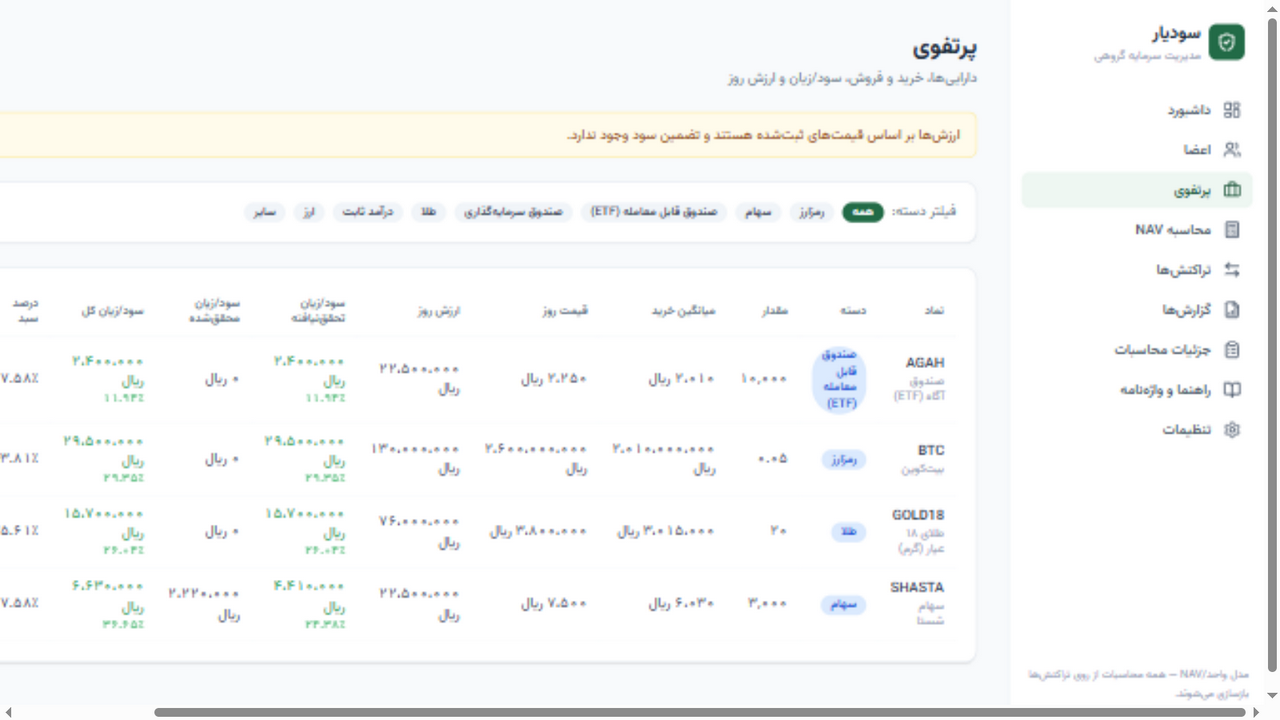
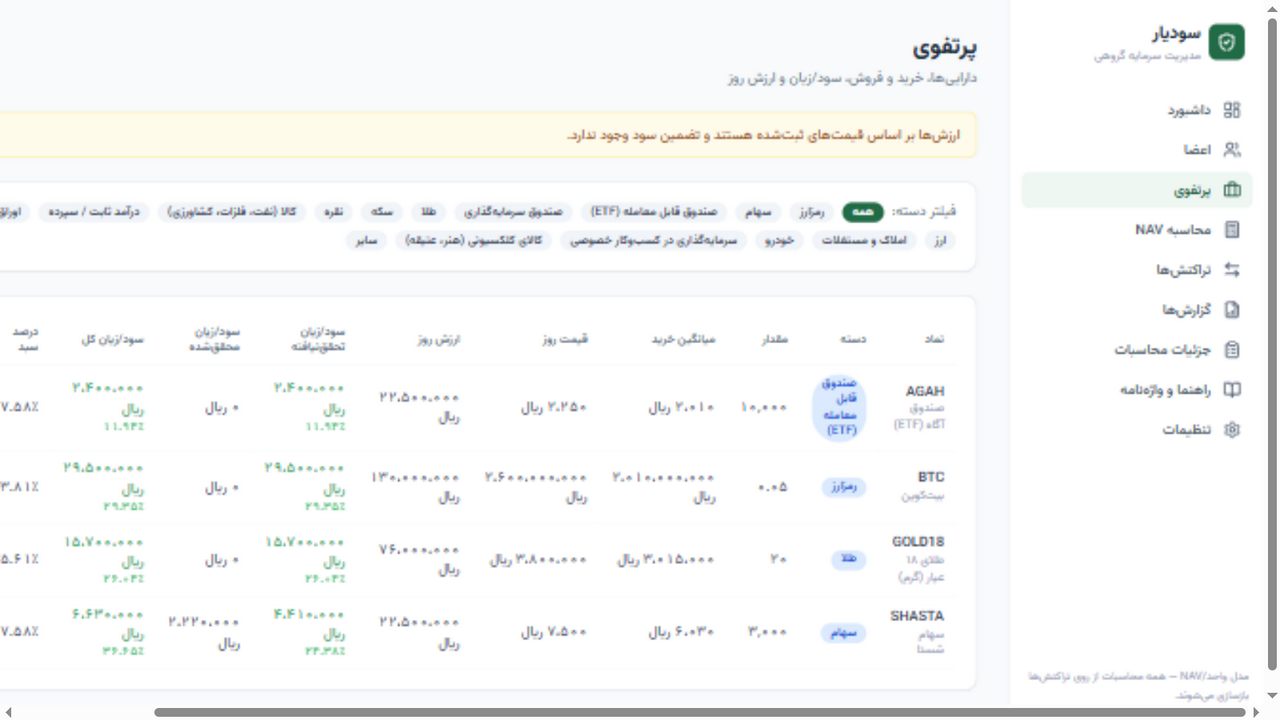
Fix phantom-loss on unpriced assets; expand asset classes to comprehensive world set
- Value a holding at its cost basis (not zero) until a live price is recorded,
  so a freshly bought asset is no longer shown as a total loss. New valuedAtCost
  flag drives amber 'to cost' hints in Portfolio.
- Add asset classes: coin, silver, commodity, bond, real estate, vehicle,
  private equity, collectible (plus existing crypto/stock/etf/fund/gold/fixed-income/fx/cash/other).
- Glossary entry explaining cost-basis valuation; README notes updated.

diff --git a/server/src/services/portfolio.ts b/server/src/services/portfolio.ts
@@ -33,6 +33,7 @@ export interface AssetValuation {
   remainingCostBasisRial: string;
   latestPriceRial: string | null;
   priceDate: string | null;
+  valuedAtCost: boolean;
   marketValueRial: string; // integer rial as string
   unrealizedPnlRial: string;
   unrealizedReturnPercent: string | null;
@@ -127,18 +128,27 @@ export async function getPortfolioState(): Promise<PortfolioState> {
     });
     const qty = toDecimal(a.quantity);
     const priceRial = latest ? BigInt(latest.priceRial) : 0n;
-    const marketValue =
-      latest && qty.gt(0) ? assetMarketValue(qty, priceRial) : 0n;
     const remainingBasis = assetMarketValue(qty, BigInt(a.avgCost));
-    const unrealized = unrealizedPnl(marketValue, remainingBasis.toString());
+    // Mark to market when a price exists; otherwise value the holding at its
+    // cost basis so a freshly bought asset with no recorded price is not shown
+    // as a total loss. `valuedAtCost` lets the UI flag that no live price is set.
+    const hasPrice = latest != null && qty.gt(0);
+    const valuedAtCost = !hasPrice && qty.gt(0);
+    const marketValue = hasPrice
+      ? assetMarketValue(qty, priceRial)
+      : valuedAtCost
+        ? remainingBasis
+        : 0n;
+    const unrealized = valuedAtCost
+      ? 0n
+      : unrealizedPnl(marketValue, remainingBasis.toString());
     const realized = BigInt(a.realizedPnl || "0");
     const totalPnl = realized + unrealized;
     assetsValueRial += marketValue;
 
-    const unrealizedRet = returnPercent(
-      unrealized.toString(),
-      remainingBasis.toString()
-    );
+    const unrealizedRet = valuedAtCost
+      ? null
+      : returnPercent(unrealized.toString(), remainingBasis.toString());
     // Total return relative to the cost basis still at work in the position.
     const totalRet = returnPercent(totalPnl.toString(), remainingBasis.toString());
 
@@ -153,6 +163,7 @@ export async function getPortfolioState(): Promise<PortfolioState> {
       remainingCostBasisRial: remainingBasis.toString(),
       latestPriceRial: latest ? latest.priceRial : null,
       priceDate: latest ? latest.priceDate.toISOString() : null,
+      valuedAtCost,
       marketValueRial: marketValue.toString(),
       unrealizedPnlRial: unrealized.toString(),
       unrealizedReturnPercent: unrealizedRet ? unrealizedRet.toString() : null,

diff --git a/web/src/pages/Portfolio.tsx b/web/src/pages/Portfolio.tsx
@@ -172,11 +172,28 @@ export default function Portfolio() {
                     <td className="td tabular">{formatUnits(a.quantity, 8)}</td>
                     <td className="td tabular">{formatMoney(a.avgCostRial, currency)}</td>
                     <td className="td tabular">
-                      {a.latestPriceRial ? formatMoney(a.latestPriceRial, currency) : "—"}
+                      {a.latestPriceRial ? (
+                        formatMoney(a.latestPriceRial, currency)
+                      ) : (
+                        <span className="text-amber-600" title="هنوز قیمت روز ثبت نشده؛ به بهای خرید ارزشگذاری شده است.">
+                          ثبتنشده
+                        </span>
+                      )}
                     </td>
-                    <td className="td tabular">{formatMoney(a.marketValueRial, currency)}</td>
+                    <td className="td tabular">
+                      {formatMoney(a.marketValueRial, currency)}
+                      {a.valuedAtCost && (
+                        <div className="text-[10px] text-amber-600">به بهای خرید</div>
+                      )}
+                    </td>
                     <td className="td">
-                      <PnlCell amount={a.unrealizedPnlRial} percent={a.unrealizedReturnPercent} currency={currency} />
+                      {a.valuedAtCost ? (
+                        <span className="text-xs text-slate-400" title="تا زمانی که قیمت روز ثبت نشود، سود/زیان تحققنیافته صفر در نظر گرفته میشود.">
+                          —
+                        </span>
+                      ) : (
+                        <PnlCell amount={a.unrealizedPnlRial} percent={a.unrealizedReturnPercent} currency={currency} />
+                      )}
                     </td>
                     <td className="td tabular">{formatMoney(a.realizedPnlRial, currency)}</td>
                     <td className="td">

diff --git a/web/src/pages/Glossary.tsx b/web/src/pages/Glossary.tsx
@@ -123,6 +123,10 @@ const SECTIONS: { title: string; terms: Term[] }[] = [
         body: "هر قیمت ثبتشده مشخص میکند دستی وارد شده (MANUAL) یا از یک سرویس/API گرفته شده است، همراه با مرجع اختیاری تا سوابق شفاف بماند.",
       },
       {
+        term: "ارزشگذاری به بهای خرید (تا ثبت قیمت روز)",
+        body: "وقتی داراییای میخرید ولی هنوز قیمت روز برای آن ثبت نکردهاید، برنامه آن را به «بهای خریدتان» ارزشگذاری میکند، نه صفر. به همین دلیل بلافاصله بعد از خرید، سود/زیان صفر نشان داده میشود (نه ضرر کامل). بهمحض ثبت قیمت روز، ارزش واقعی و سود/زیان محاسبه میشود. تا آن زمان کنار دارایی برچسب «به بهای خرید» و «قیمت روز: ثبتنشده» میبینید.",
+      },
+      {
         term: "NavSnapshot (ثبت لحظهای NAV)",
         body: "یک عکس دائمی از وضعیت سبد در یک تاریخ مشخص، شامل ریز محاسبات هر دارایی و هر دسته. برای هر تاریخ حداکثر یک ثبت وجود دارد و مبنای ورود/خروج اعضا همین عدد ثبتشده و تغییرناپذیر است.",
       },

diff --git a/web/src/lib/labels.ts b/web/src/lib/labels.ts
@@ -46,8 +46,16 @@ export function assetClassLabel(cls: string): string {
     ETF: "صندوق قابل معامله (ETF)",
     MUTUAL_FUND: "صندوق سرمایهگذاری",
     GOLD: "طلا",
-    FIXED_INCOME: "درآمد ثابت",
+    COIN: "سکه",
+    SILVER: "نقره",
+    COMMODITY: "کالا (نفت، فلزات، کشاورزی)",
+    FIXED_INCOME: "درآمد ثابت / سپرده",
+    BOND: "اوراق قرضه/مشارکت",
     FX: "ارز",
+    REAL_ESTATE: "املاک و مستغلات",
+    VEHICLE: "خودرو",
+    PRIVATE_EQUITY: "سرمایهگذاری در کسبوکار خصوصی",
+    COLLECTIBLE: "کالای کلکسیونی (هنر، عتیقه)",
     CASH: "نقد",
     OTHER: "سایر",
     // legacy values from earlier data
@@ -57,15 +65,23 @@ export function assetClassLabel(cls: string): string {
   return map[cls] ?? cls;
 }
 
-/** Ordered list of selectable asset categories (excludes the CASH pseudo-bucket). */
+/** Ordered list of selectable asset categories (includes CASH for manual cash-like holdings). */
 export const ASSET_CLASSES: { value: string; label: string }[] = [
   "CRYPTO",
   "STOCK",
   "ETF",
   "MUTUAL_FUND",
   "GOLD",
+  "COIN",
+  "SILVER",
+  "COMMODITY",
   "FIXED_INCOME",
+  "BOND",
   "FX",
+  "REAL_ESTATE",
+  "VEHICLE",
+  "PRIVATE_EQUITY",
+  "COLLECTIBLE",
   "CASH",
   "OTHER",
 ].map((v) => ({ value: v, label: assetClassLabel(v) }));

diff --git a/web/src/pages/Dashboard.tsx b/web/src/pages/Dashboard.tsx
@@ -24,7 +24,7 @@ import { formatMoney, formatUnits, formatPercent, toJalali, toPersianDigits } fr
 import { useSettings } from "../context/SettingsContext";
 import { txTypeLabel, txStatusTone, txStatusLabel, assetClassLabel } from "../lib/labels";
 
-const PIE_COLORS = ["#2f8659", "#4fa172", "#7fbf99", "#aed8bf", "#226b47", "#d6ecdf", "#94a3b8", "#f59e0b", "#3b82f6"];
+const PIE_COLORS = ["#2f8659", "#4fa172", "#7fbf99", "#aed8bf", "#226b47", "#d6ecdf", "#94a3b8", "#f59e0b", "#3b82f6", "#8b5cf6", "#ec4899", "#14b8a6", "#f97316", "#64748b", "#eab308", "#06b6d4", "#a855f7"];
 
 export default function Dashboard() {
   const { currency } = useSettings();

diff --git a/web/src/lib/api.ts b/web/src/lib/api.ts
@@ -76,6 +76,7 @@ export interface AssetValuation {
   remainingCostBasisRial: string;
   latestPriceRial: string | null;
   priceDate: string | null;
+  valuedAtCost: boolean;
   marketValueRial: string;
   unrealizedPnlRial: string;
   unrealizedReturnPercent: string | null;

diff --git a/server/src/schemas.ts b/server/src/schemas.ts
@@ -39,8 +39,16 @@ export const assetClassEnum = z.enum([
   "ETF",
   "MUTUAL_FUND",
   "GOLD",
+  "COIN",
+  "SILVER",
+  "COMMODITY",
   "FIXED_INCOME",
+  "BOND",
   "FX",
+  "REAL_ESTATE",
+  "VEHICLE",
+  "PRIVATE_EQUITY",
+  "COLLECTIBLE",
   "CASH",
   "OTHER",
 ]);

diff --git a/README.md b/README.md
@@ -73,7 +73,7 @@
 - 🔍 **کاملاً قابل بازسازی (Audit-friendly)** — همهٔ اعداد از روی لجر تراکنشها بازسازی میشوند
 - 📈 **سود/زیان داراییها** — میانگین موزون قیمت خرید (WAC)، سود محققشده و محققنشده
 - 👤 **عملکرد هر عضو** — سود/زیان خالص ساده و XIRR (بازده مبتنی بر جریان نقدی)
-- 🗂 **دستهبندی دارایی** — رمزارز، سهام، ETF، صندوق، طلا، درآمد ثابت، ارز، نقد و …
+- 🗂 **دستهبندی جامع دارایی** — رمزارز، سهام، ETF، صندوق، طلا، سکه، نقره، کالا (نفت/فلزات/کشاورزی)، درآمد ثابت، اوراق، ارز، املاک و مستغلات، خودرو، سرمایهگذاری در کسبوکار خصوصی، کالای کلکسیونی، نقد و سایر
 - 📅 **تاریخ شمسی (جلالی)** در همهٔ ورودیها و نمایشها
 - 🌐 **فارسی و RTL** با رابط کاربری تمیز و ریسپانسیو
 - 💾 **بکاپ/بازیابی** و خروجی CSV/Excel با پشتیبانی درست از فارسی
@@ -115,6 +115,7 @@
 - **میانگین موزون قیمت خرید (WAC)**: کارمزد خرید در بهای تمامشده لحاظ میشود.
 - **سود محققنشده** = ارزش روز − باقیماندهٔ بهای تمامشده
 - **سود محققشده** = (وجه فروش − کارمزد) − بهای تمامشدهٔ واحدهای فروختهشده
+- **ارزشگذاری به بهای خرید**: اگر برای یک دارایی هنوز قیمت روز ثبت نشده باشد، بهجای صفر، به **بهای خرید** ارزشگذاری میشود تا دارایی تازهخریداریشده بهاشتباه «زیان کامل» نشان داده نشود. بهمحض ثبت قیمت روز، ارزش و سود/زیان واقعی محاسبه میشود.
 
 ### عملکرد هر عضو — دو معیار مکمل
 
